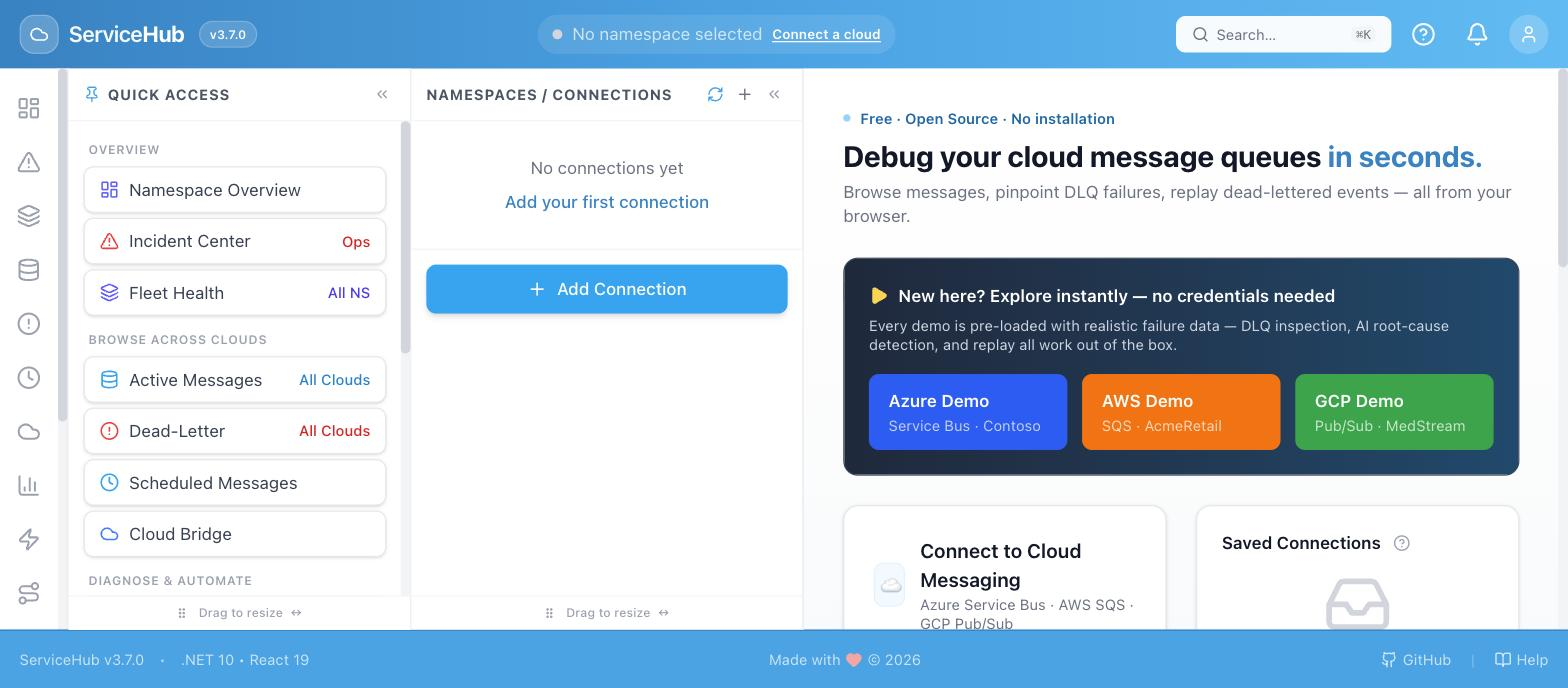
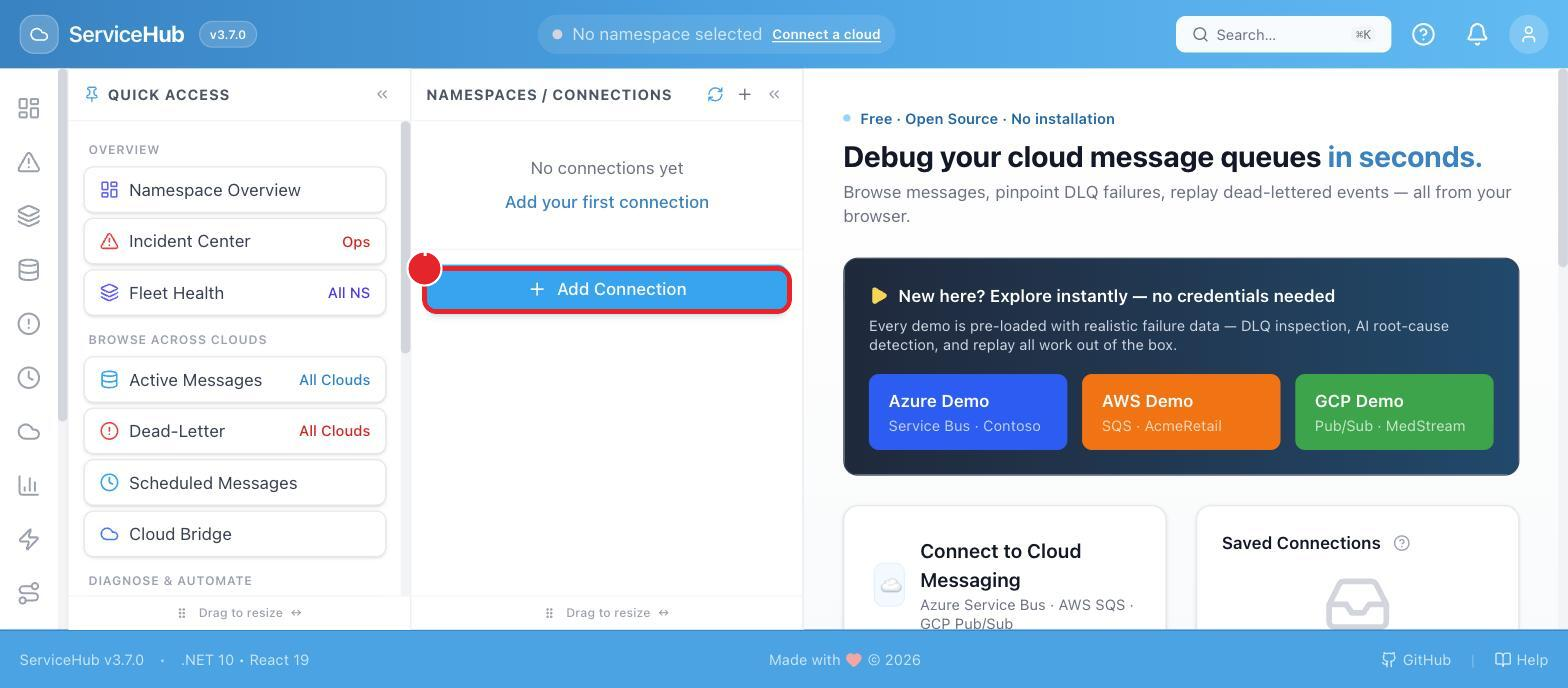
Update Local deployment guide

Changed region(s): [[0.25, 0.3663, 0.5312, 0.4578]]

diff --git a/LOCAL-DEPLOYMENT.md b/LOCAL-DEPLOYMENT.md
@@ -110,18 +110,20 @@ Go to **[http://localhost:8080](http://localhost:8080)**. You should see this:
 
 ![ServiceHub landing page](docs/screenshots/getting-started/01-landing-page.jpg)
 
-### Step 7: Click "Open App"
+### Step 7: You're in
 
-![ServiceHub connect screen — no connections yet](docs/screenshots/getting-started/02-connect-screen.jpg)
+![ServiceHub connect screen — no connections yet, red box around Add Connection button](docs/screenshots/getting-started/02-connect-screen.jpg)
 
 **"No connections yet" is expected** — that's not an error, it's the normal starting point.
 From here you have two choices:
 
-- Click **Azure Demo**, **AWS Demo**, or **GCP Demo** to explore a fully working example with
-  fake data — no real cloud account needed, completely safe to click around.
-- Click **Add Connection** if you already have a real Azure/AWS/GCP account you want to
-  connect. See [self-hosting/README.md](self-hosting/README.md) for how to get a real
-  connection string safely (read-only, least-privilege).
+- Click **Azure Demo**, **AWS Demo**, or **GCP Demo** (top of the page) to explore a fully
+  working example with fake data — no real cloud account needed, completely safe to click
+  around. This is the fastest way to see what ServiceHub does.
+- Click the boxed **Add Connection** button (or just scroll down the page — the same form is
+  sitting right below the demo buttons) if you already have a real Azure, AWS, or GCP account
+  and want to connect it. Full instructions with screenshots for each cloud are in
+  [Connecting to Your Real Cloud Account](#connecting-to-your-real-cloud-account) below.
 
 ### Stopping, restarting, and resetting
 
@@ -178,12 +180,142 @@ Click into the terminal window running it and press `Ctrl + C`.
 
 ---
 
-## Ready to connect your real cloud account?
+## Connecting to Your Real Cloud Account
 
-Once ServiceHub is running locally (either option above), connecting it to a real Azure
-Service Bus, AWS SQS/SNS, or GCP Pub/Sub is the next step — including how to create a
-safe, read-only credential instead of using a full-access one. That's covered in
-[self-hosting/README.md](self-hosting/README.md).
+This section is only for people who want to point ServiceHub at a **real** Azure Service Bus,
+AWS SQS/SNS, or GCP Pub/Sub — not the free demo data. **You can skip this entirely** and just
+use the demo buttons from Step 7 if you're only exploring.
+
+You'll need one thing from your cloud provider: a credential — a long secret code (Azure), a
+pair of keys (AWS), or a small file (GCP). You paste or upload it into ServiceHub, ServiceHub
+encrypts it immediately, and it's never sent anywhere except your own cloud provider's API.
+
+### Open the connection form (same first step for every cloud)
+
+Go to ServiceHub, click **Add Connection**, then scroll down slightly until you see **Connect
+to Cloud Messaging** with three tiles. Click the one for your cloud:
+
+![Cloud provider picker — Azure, AWS, and GCP tiles each boxed and numbered](docs/screenshots/getting-started/03-provider-picker.jpg)
+
+Then jump to the matching section below.
+
+---
+
+### Connecting Azure Service Bus
+
+**What you need:** a *connection string* — a long piece of text Azure gives you that works
+like a password for one specific Service Bus namespace.
+
+**Where to get it, in the Azure Portal** (<https://portal.azure.com>):
+
+1. Search for and open your **Service Bus Namespace**.
+2. In the left-hand menu, click **Shared access policies**.
+3. Click an existing policy, or click **+ Add** to create one. If creating one, name it
+   something like `servicehub-readonly` and tick **only** the **Listen** box — that gives
+   ServiceHub read-only access, which is the safest choice to start with.
+4. Click the policy, then click the copy icon next to **Primary Connection String**.
+
+*(Prefer the command line? The exact `az` command is in
+[self-hosting/README.md → Azure Service Bus](self-hosting/README.md#azure-service-bus).)*
+
+**Back in ServiceHub**, paste it into the form:
+
+![Azure connection form — Connection String field, Environment dropdown, and Connect button each boxed and numbered](docs/screenshots/getting-started/04-azure-form.jpg)
+
+1. Paste the connection string you copied.
+2. Leave **Environment** set to **DEV — Development** the first time — this unlocks every
+   feature so you can try replay/send safely. (`PROD` intentionally locks those down — see
+   [Deployment Model](README.md#deployment-model).)
+3. Click **Connect**.
+
+---
+
+### Connecting AWS SQS/SNS
+
+**Before you start:** AWS support is switched **off** by default on a fresh install. If the
+form shows an orange message reading *"AWS SQS/SNS is disabled on this server..."*, that's not
+an error — it just means this one-time switch needs flipping first:
+
+1. Stop ServiceHub (`Ctrl + C`, or `docker compose down` if it's running in the background).
+2. Open the `.env` file you created in Step 4, and add this line to the bottom:
+   ```
+   CLOUDPROVIDERS__AWS__ENABLED=true
+   ```
+3. Start it again: `docker compose up -d`.
+
+**What you need:** an **Access Key ID** and **Secret Access Key** — a pair of codes from AWS
+Identity and Access Management (IAM) that work together like a username and password.
+
+**Where to get them, in the AWS Console** (<https://console.aws.amazon.com/iam>):
+
+1. Go to **IAM → Users**, and open (or create) the user you want ServiceHub to use.
+2. Open the **Security credentials** tab.
+3. Under **Access keys**, click **Create access key**.
+4. Copy both the **Access Key ID** and **Secret Access Key** shown — the secret key is only
+   shown once, so copy it immediately.
+
+For a personal trial, any working key is fine. Before connecting to anything you actually
+care about, attach the least-privilege policy in
+[self-hosting/README.md → Cloud credentials](self-hosting/README.md#cloud-credentials-least-privilege-setup)
+(AWS SQS / SNS section) instead of using
+a full-access key.
+
+**Back in ServiceHub**, paste them into the form:
+
+![AWS connection form — Access Key ID, Secret Access Key, and Region fields each boxed and numbered](docs/screenshots/getting-started/05-aws-form.jpg)
+
+1. Paste your **Access Key ID**.
+2. Paste your **Secret Access Key**.
+3. Choose the **AWS Region** your queues actually live in (for example `us-east-1`) — this has
+   to match, or ServiceHub won't find anything.
+
+Then set **Environment** to **DEV** the first time (same as Azure above) and click **Connect**.
+
+---
+
+### Connecting GCP Pub/Sub
+
+**Before you start:** like AWS, GCP support is off by default. If you see a message saying GCP
+is disabled, add this line to your `.env` file and restart the same way as the AWS steps
+above:
+```
+CLOUDPROVIDERS__GCP__ENABLED=true
+```
+
+**What you need:** a **Service Account Key** — a small `.json` file that Google Cloud
+generates, which acts as an identity ServiceHub can use.
+
+**Where to get it, in the Google Cloud Console** (<https://console.cloud.google.com/iam-admin/serviceaccounts>):
+
+1. Go to **IAM & Admin → Service Accounts**, then click **Create Service Account**.
+2. Give it a name (e.g. `servicehub-readonly`), then click **Create and Continue**.
+3. Grant it the role **Pub/Sub Viewer** and **Pub/Sub Subscriber** (add **Pub/Sub Publisher**
+   too only if you also want to send test messages), then click **Done**.
+4. Open the new service account, go to the **Keys** tab, click **Add Key → Create new key**,
+   choose **JSON**, and click **Create** — a `.json` file downloads to your computer.
+
+**Back in ServiceHub**, fill in the form:
+
+![GCP connection form — Project ID field and service-account-key upload box each boxed and numbered](docs/screenshots/getting-started/06-gcp-form.jpg)
+
+1. Type your **GCP Project ID** (found on the Google Cloud Console's dashboard, e.g.
+   `my-project-123`).
+2. Click the upload box and choose the `.json` file you just downloaded.
+
+Then set **Environment** to **DEV** and click **Connect**.
+
+---
+
+### After you click Connect
+
+ServiceHub tests the credential immediately. If it fails, the error message tells you
+specifically what's wrong (wrong region, revoked key, missing permission, etc.) — read it, it's
+written for you, not written for programmers. Once it succeeds, your namespace appears in the
+**Namespaces / Connections** panel on the left, and you can start browsing real queues.
+
+For production use — least-privilege IAM policies, running with authentication turned on, and
+what changes when you set **Environment** to `PROD` — see
+[self-hosting/README.md](self-hosting/README.md) once you're past this first trial connection.
 
 ---
 
@@ -199,6 +331,8 @@ safe, read-only credential instead of using a full-access one. That's covered in
 | I closed the terminal and now the page won't load | Closing the window running `docker compose up --build` stops ServiceHub | Run `docker compose up -d` from inside the folder to start it again in the background |
 | I want to see if it's actually working | — | Open [http://localhost:8080/health/live](http://localhost:8080/health/live) — it should show `"status": "Healthy"` |
 | Windows: `openssl` isn't recognized | Plain Command Prompt doesn't include `openssl` | Use **Git Bash** instead (installed alongside git), or fill in `.env` by hand as described in Step 4 |
+| "AWS/GCP SQS/SNS/Pub-Sub is disabled on this server" | That cloud isn't switched on yet — off by default for everyone | Add the matching `CLOUDPROVIDERS__AWS__ENABLED=true` / `CLOUDPROVIDERS__GCP__ENABLED=true` line to `.env`, then restart — see [Connecting AWS SQS/SNS](#connecting-aws-sqssns) / [Connecting GCP Pub/Sub](#connecting-gcp-pubsub) |
+| Clicking **Connect** shows a red error instead of adding the namespace | The credential, region, or project ID doesn't match what you typed, or the account lacks permission | Read the red message — it names the specific problem. Double-check you copied the whole value with nothing extra, and that the region/project match your cloud provider's console exactly |
 
 **Still stuck?** Open an issue on
 [GitHub](https://github.com/debdevops/servicehub/issues) — include what step you were on and
